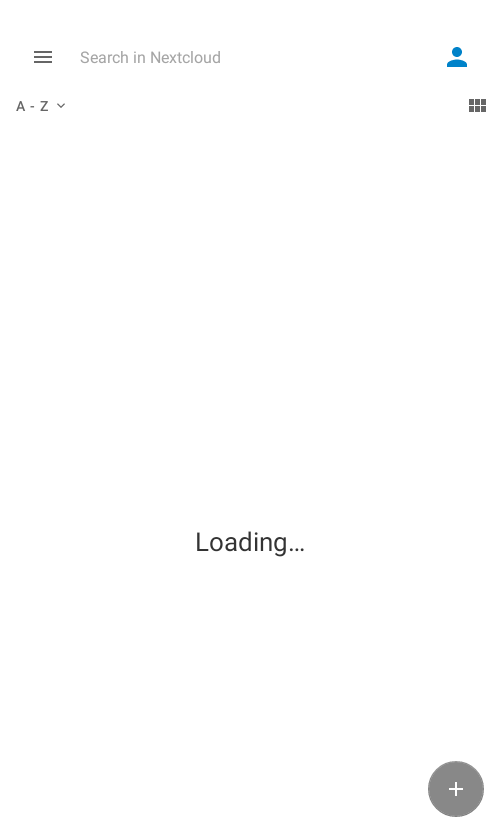
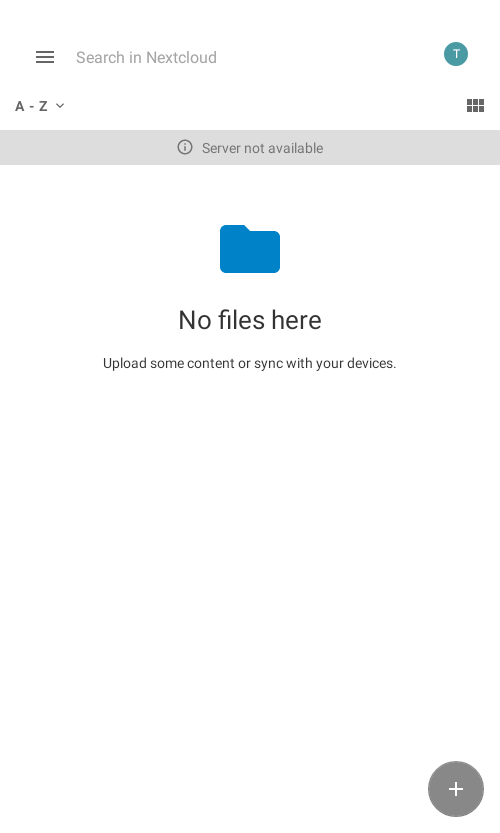
Fix and enable FDAScreenshotIT.showMediaThenAllFiles

diff --git a/app/src/androidTest/java/com/nextcloud/client/FileDisplayActivityScreenshotIT.kt b/app/src/androidTest/java/com/nextcloud/client/FileDisplayActivityScreenshotIT.kt
@@ -66,8 +66,8 @@ class FileDisplayActivityScreenshotIT : AbstractIT() {
         screenshot(sut)
     }
 
-    // @Test
-    // @ScreenshotTest
+    @Test
+    @ScreenshotTest
     fun showMediaThenAllFiles() {
         val fileDisplayActivity = activityRule.launchActivity(null)
         val sut = fileDisplayActivity.listOfFilesFragment

diff --git a/app/src/main/java/com/owncloud/android/ui/asynctasks/GallerySearchTask.java b/app/src/main/java/com/owncloud/android/ui/asynctasks/GallerySearchTask.java
@@ -99,9 +99,16 @@ public class GallerySearchTask extends AsyncTask<Void, Void, GallerySearchTask.R
                 RemoteOperationResult result = searchRemoteOperation.execute(user.toPlatformAccount(),
                                                                              photoFragment.getContext());
 
-                boolean emptySearch = parseMedia(startDate, endDate, result.getData());
-                long lastTimeStamp = findLastTimestamp(result.getData());
-                return new Result(result.isSuccess(), emptySearch, lastTimeStamp);
+                if (result.isSuccess()) {
+                    boolean emptySearch = parseMedia(startDate, endDate, result.getData());
+                    long lastTimeStamp = findLastTimestamp(result.getData());
+
+
+
+                    return new Result(result.isSuccess(), emptySearch, lastTimeStamp);
+                } else {
+                    return new Result(false, false, -1);
+                }
             } else {
                 return new Result(false, false, -1);
             }
